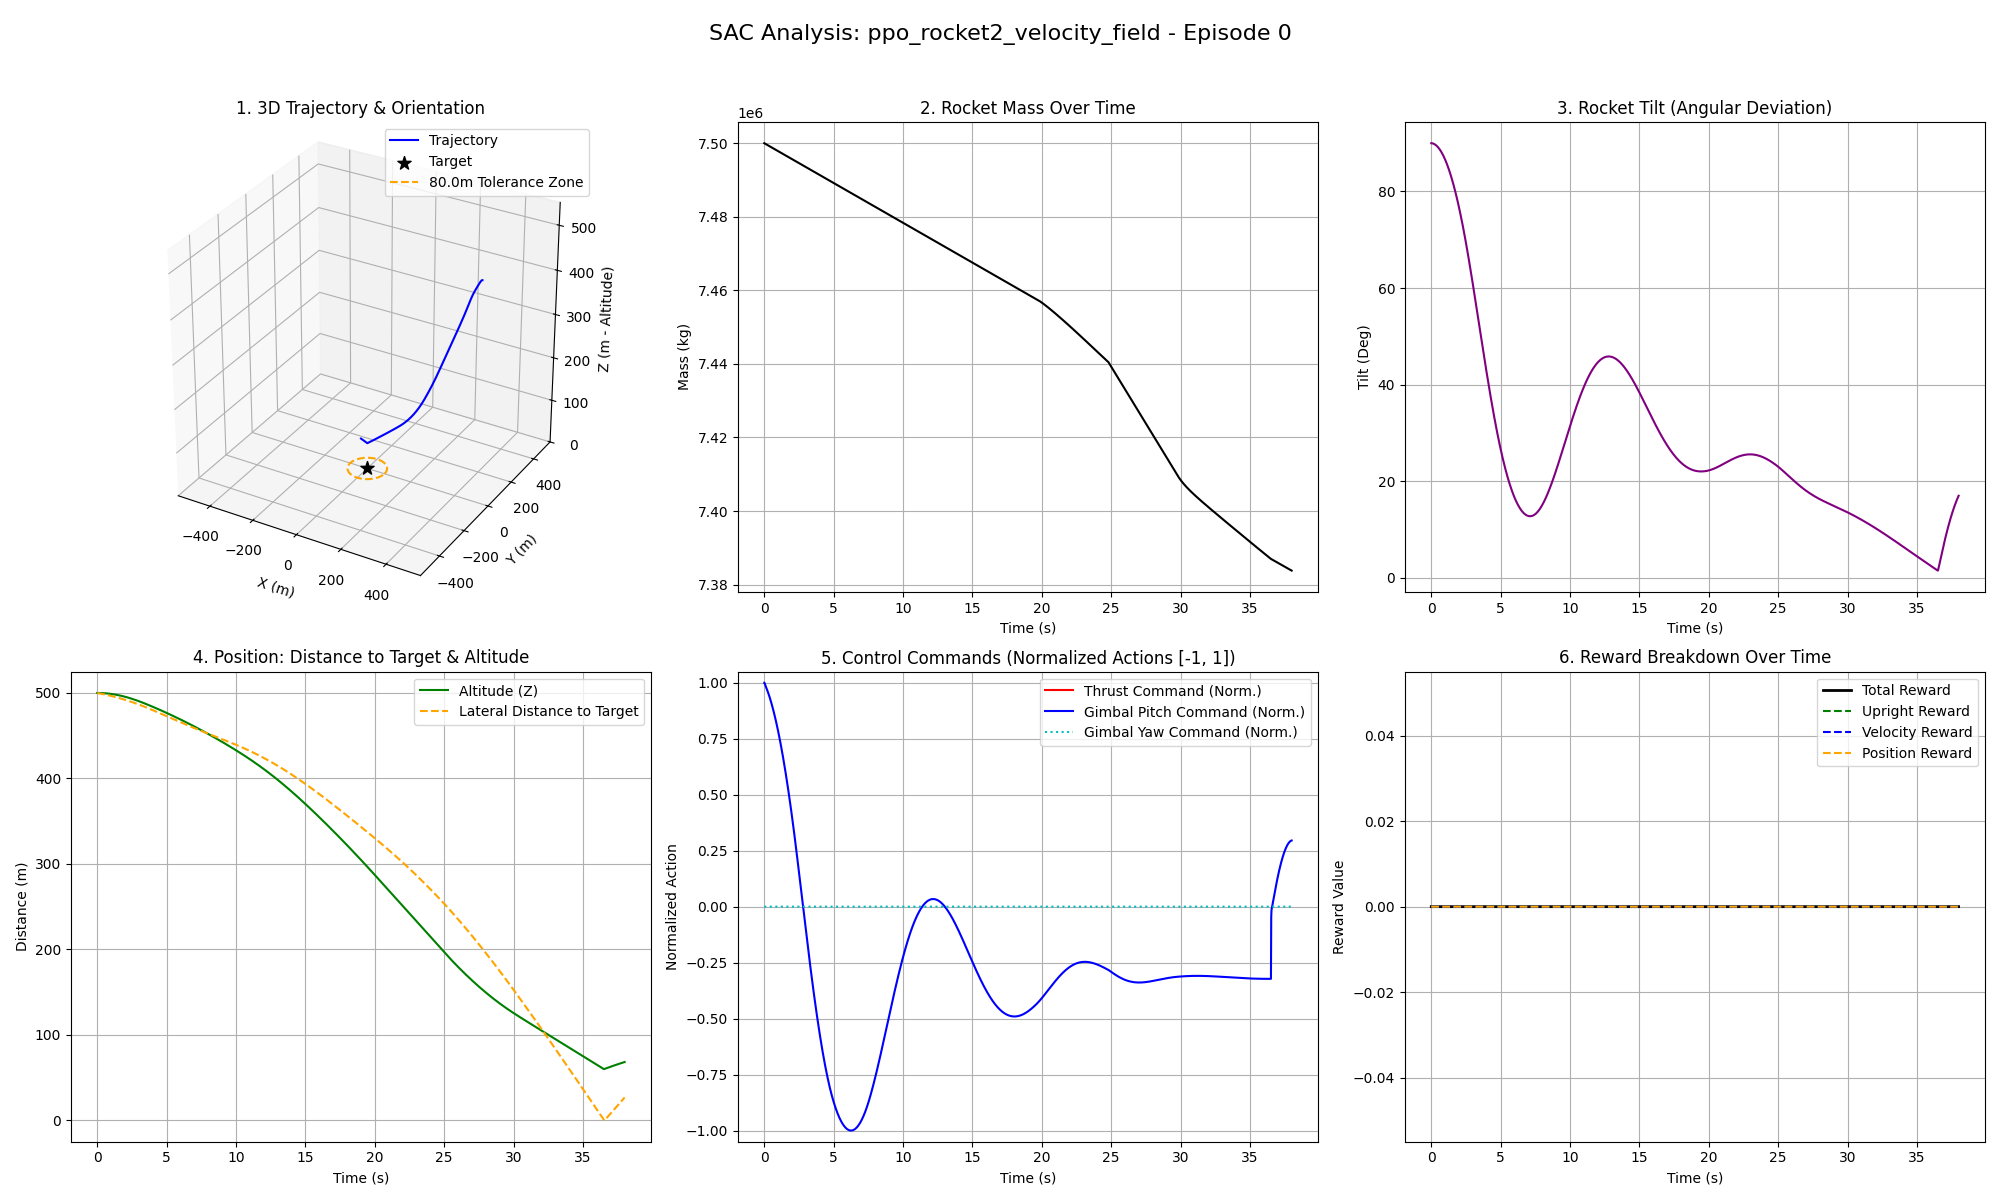
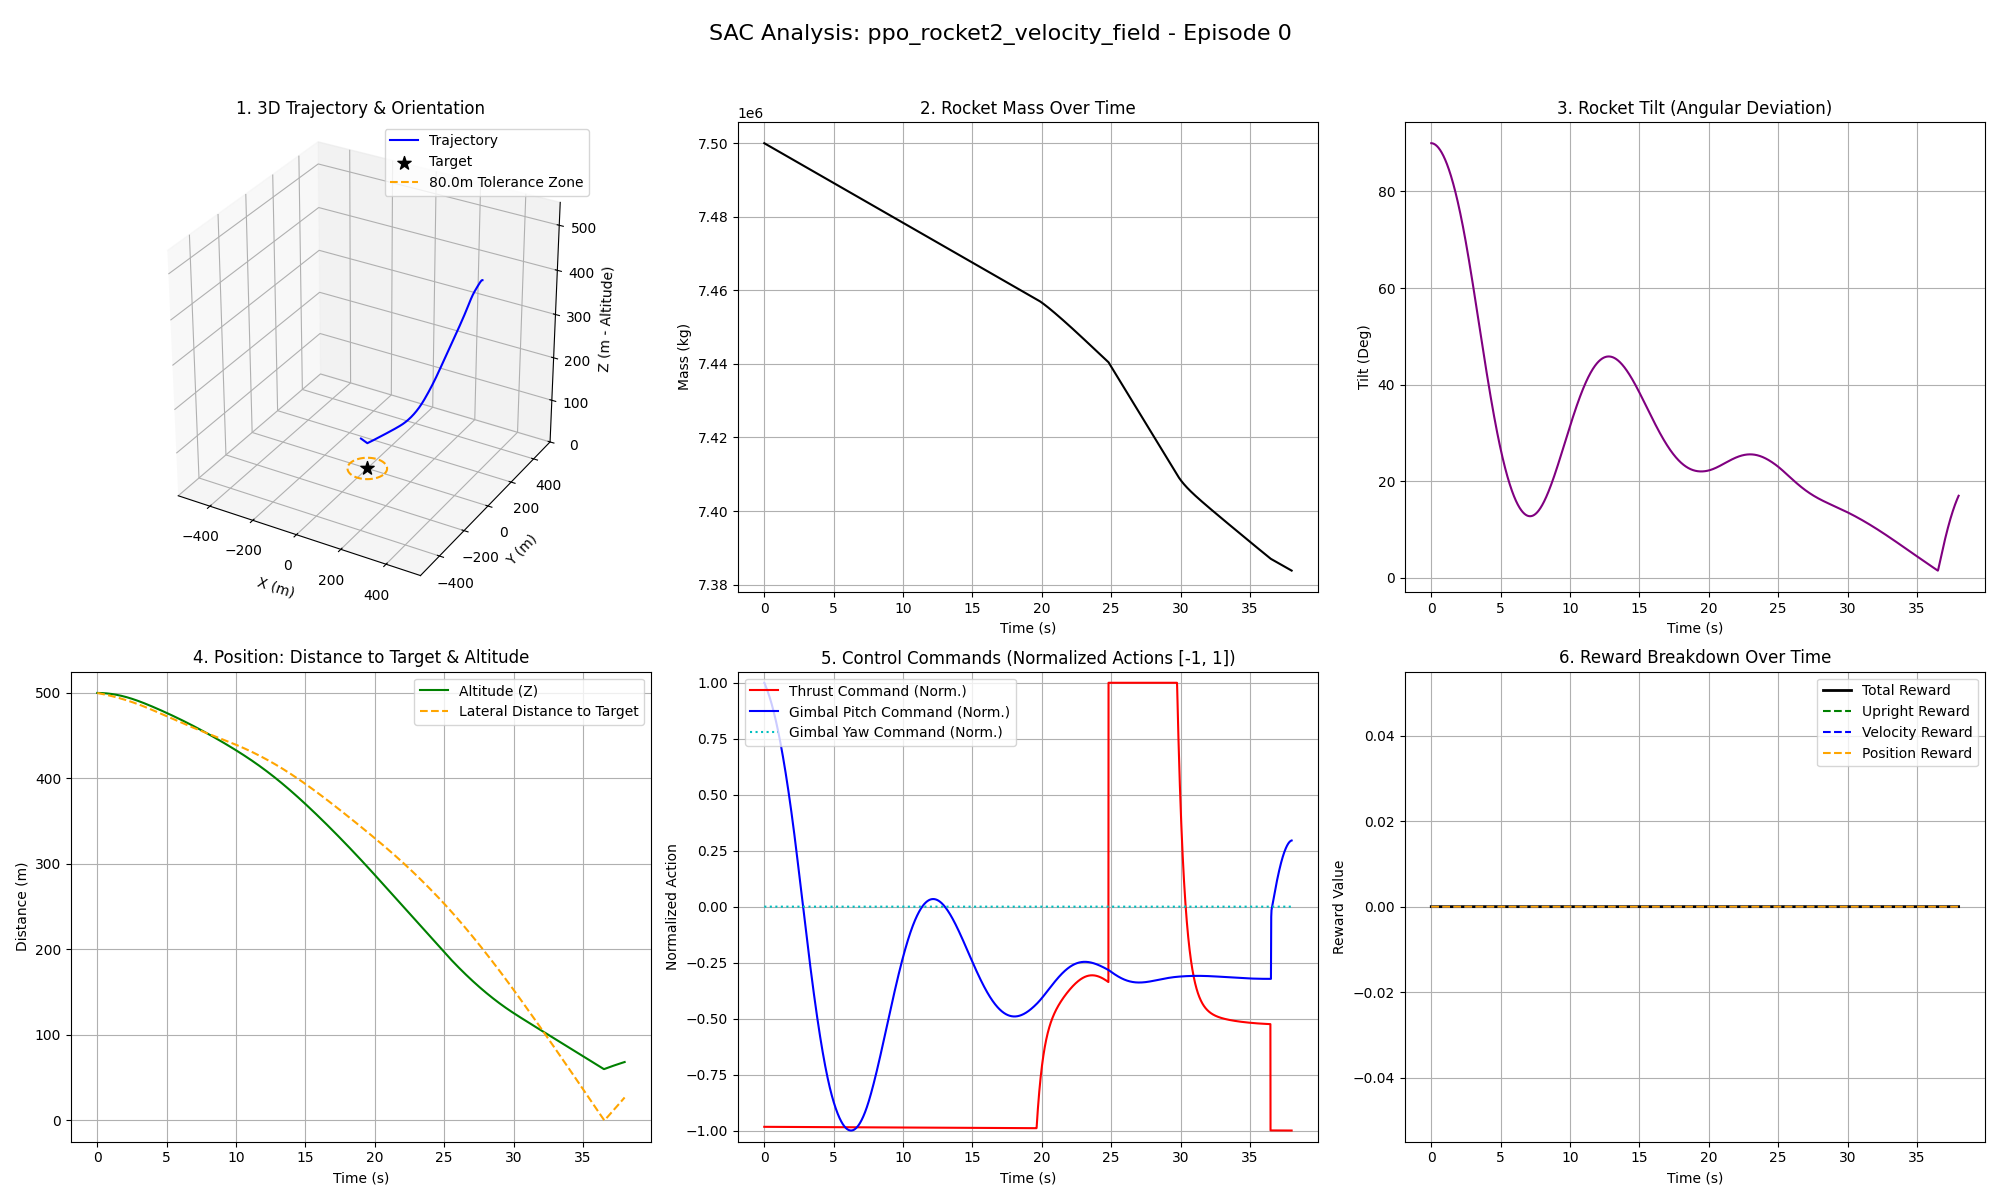
test

Changed region(s): [[0.372, 0.555, 0.651, 0.6167]]

diff --git a/plotfigure.py b/plotfigure.py
@@ -183,7 +183,7 @@ def plot_unified_analysis(history, episode_num, model_name, save_dir):
         return 2 * (x - x_min) / (x_max - x_min) - 1  # scale → [-1, 1]
 
     # thrust 已经是 normalized，可直接使用
-    thrust_norm = thrust  
+    thrust_norm = normalize(thrust) 
 
     # gimbal 两个通道：yaw = gimbal[:,0], pitch = gimbal[:,1]
     pitch_norm = normalize(gimbal[:, 1])
